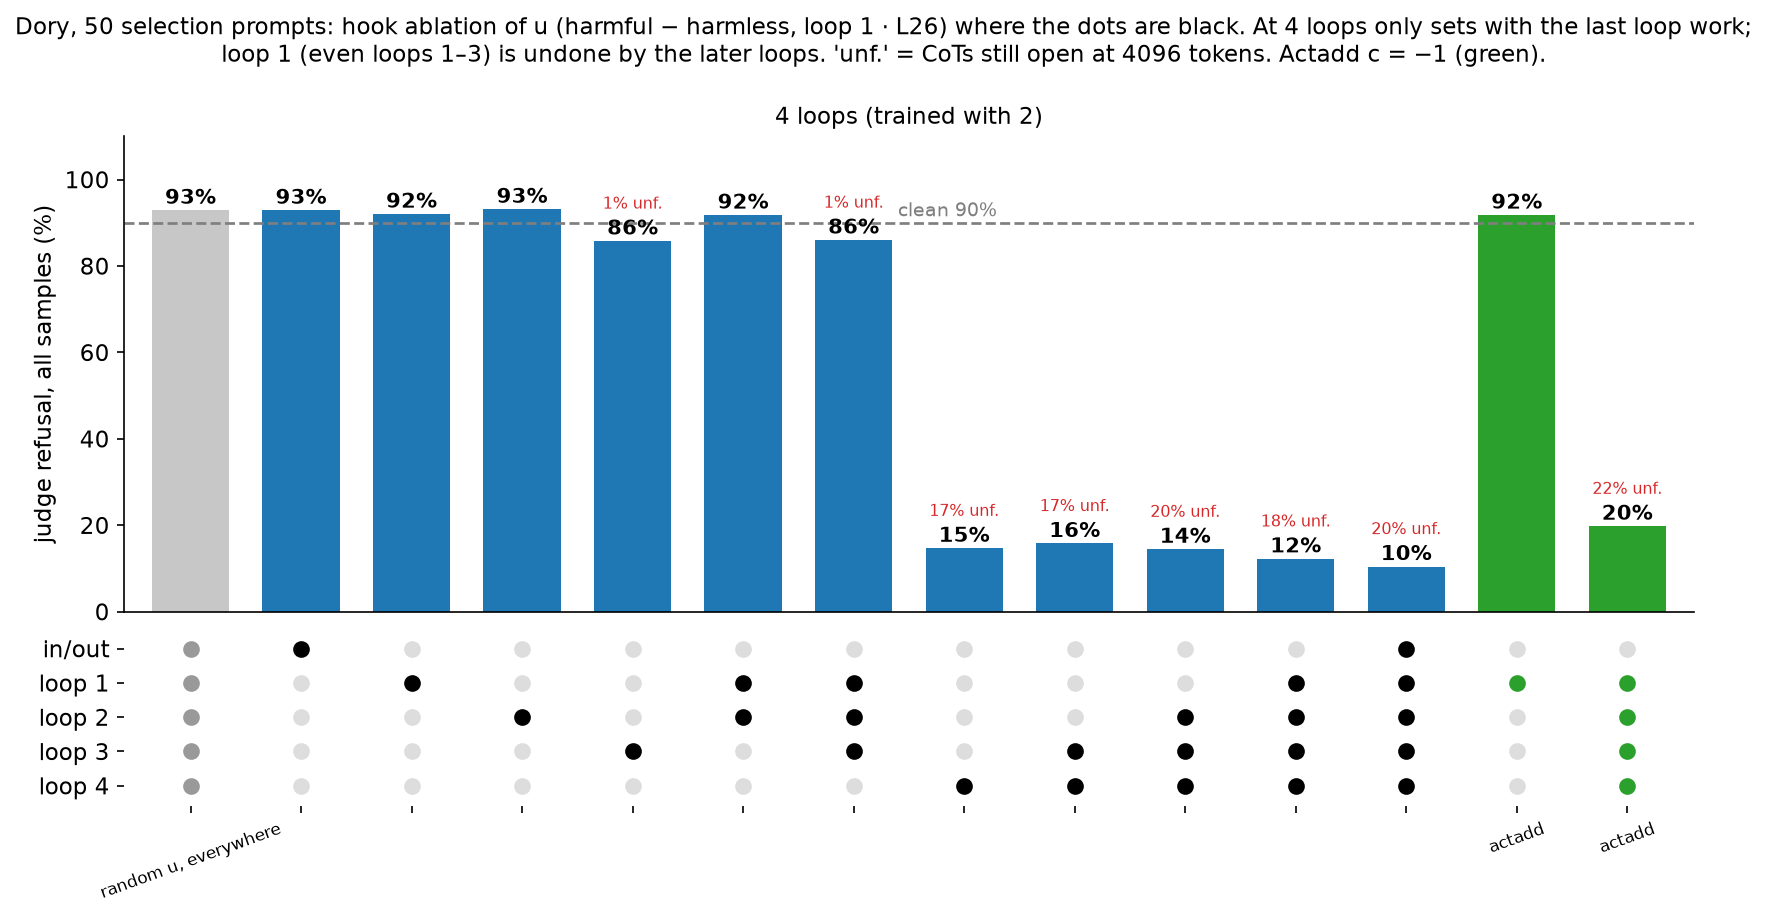
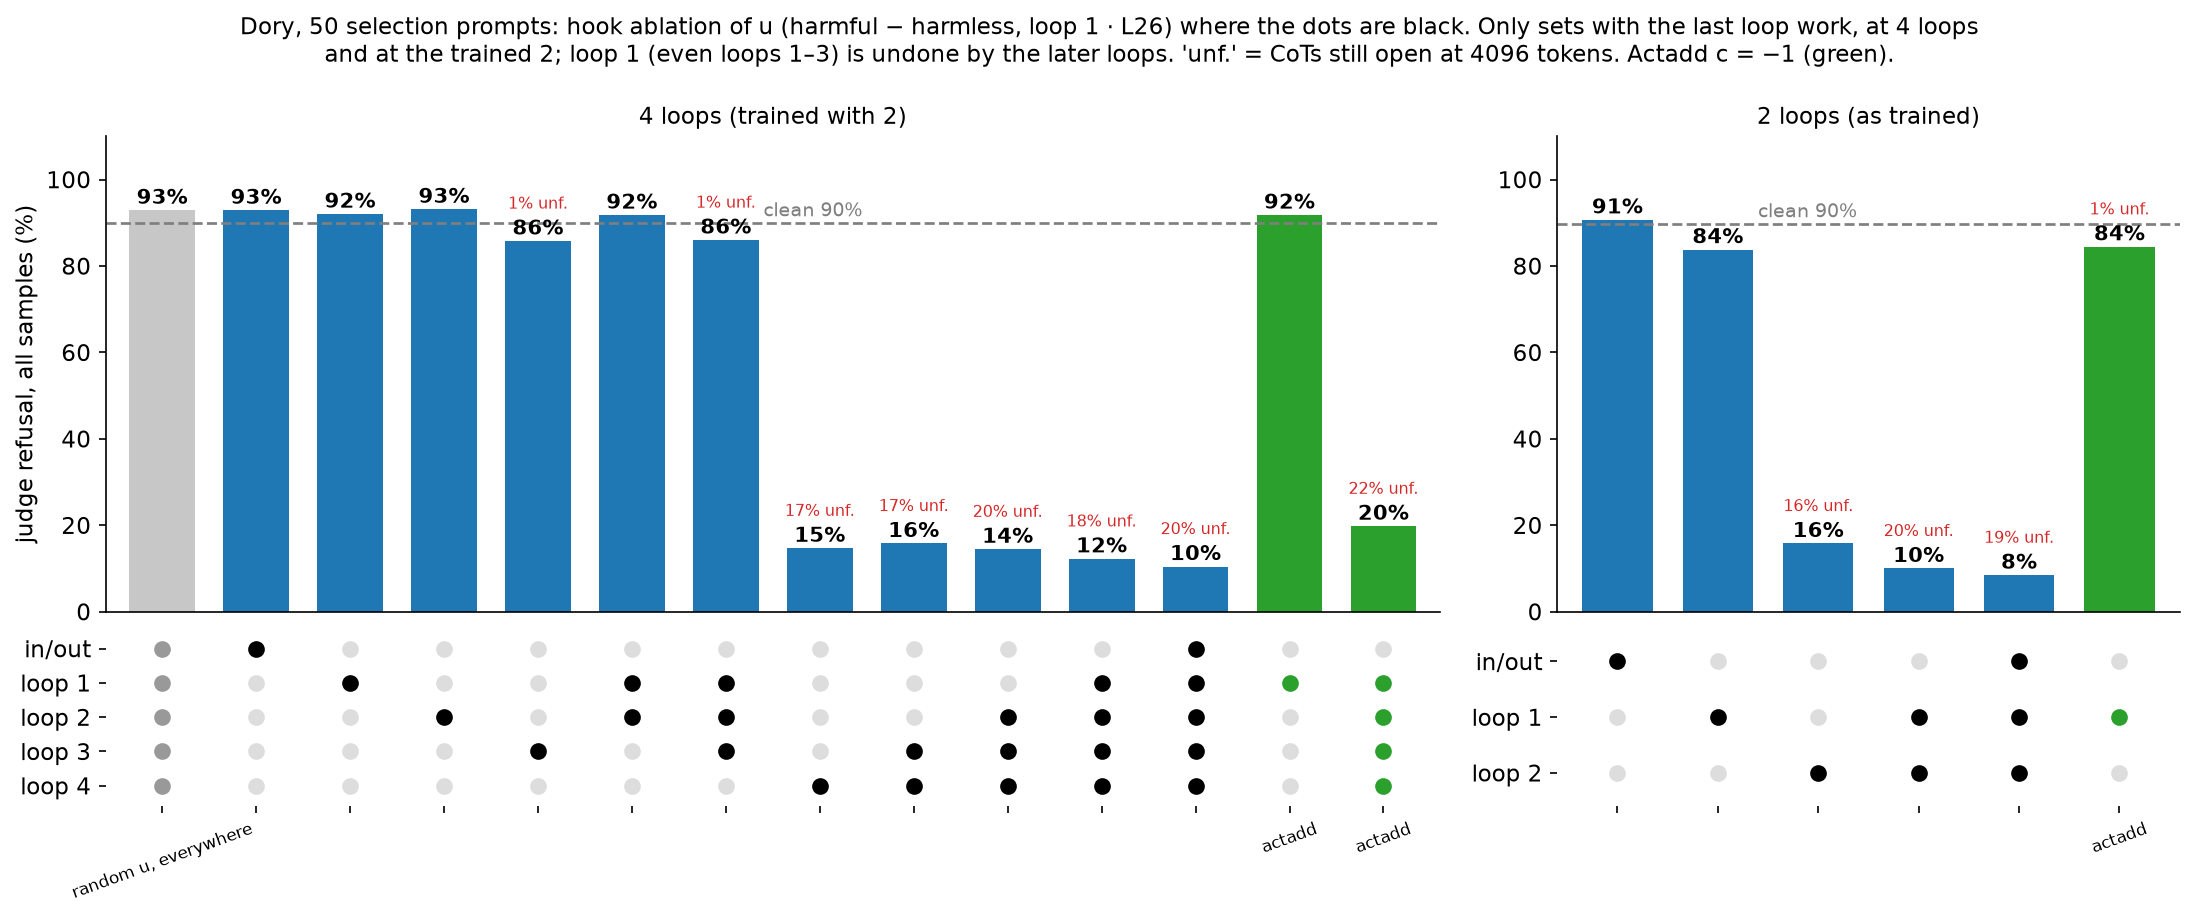
Dory loop subsets at the trained 2 loops: the last loop carries the effect there too

diff --git a/scripts/make_presentation_figures.py b/scripts/make_presentation_figures.py
@@ -904,8 +904,8 @@ def fig_dory_loops():
         dots.spines[["left", "bottom"]].set_visible(False)
     axes[0, 0].set_ylabel("judge refusal, all samples (%)")
     fig.suptitle("Dory, 50 selection prompts: hook ablation of u (harmful − harmless, loop 1 · L26) where the dots are "
-                 "black. At 4 loops only sets with the last loop work;\nloop 1 (even loops 1–3) is undone by the "
-                 "later loops. 'unf.' = CoTs still open at 4096 tokens. Actadd c = −1 (green).", fontsize=11, y=1.02)
+                 "black. Only sets with the last loop work, at 4 loops\nand at the trained 2; loop 1 (even loops 1–3) is "
+                 "undone by the later loops. 'unf.' = CoTs still open at 4096 tokens. Actadd c = −1 (green).", fontsize=11, y=1.02)
     fig.savefig(OUT / "dory_loops.png", dpi=150, bbox_inches="tight"); plt.close(fig)
 
 

diff --git a/docs/presentation.md b/docs/presentation.md
@@ -456,7 +456,7 @@ Logit lens on clean traces (decode each loop's output directly):
 
 ---
 
-## Dory at 4 loops: only the last loop matters
+## Dory: only the last loop matters (4 loops and 2)
 
 ![w:1150](figures/dory_loops.png)
 
@@ -466,7 +466,10 @@ Logit lens on clean traces (decode each loop's output directly):
   loops 1–3 86%, input + output stacks 93%. Same 40 sublayers per single loop, so it is *where*, not how many.
 - Stronger than in Ouro (loop 1 alone 40%, any set with loop 3 or 4 8–15%): Dory adds the input stack's output back
   before every loop, so after loop 1 the next loop starts with u again (input stack + loop 1: next run).
-- The cost moves with loop 4: 17–20% of CoTs still open at 4096 (19% at 2 loops); actadd only in loop 1 does nothing.
+- **The same at the trained 2 loops:** loop 2 alone 16%, both loops 10%, everything 8%; loop 1 alone 84%, input +
+  output stacks 91% (clean 90%).
+- The cost moves with the last loop: 16–20% of CoTs still open at 4096 whenever it is ablated, about 1% otherwise
+  (same at 2 and 4 loops); actadd only in loop 1 does nothing (84–92%).
 
 ---
 
@@ -478,7 +481,7 @@ Logit lens on clean traces (decode each loop's output directly):
    on the test set; then gpt-oss.
 3. **Statistics:** bootstrap confidence intervals over prompts for every table.
 4. **Capability at a longer cap** (AIME at 16–32k tokens) and actadd at matched strength across models.
-5. **Dory:** loop subsets at the trained 2 loops (running); input stack + loop 1 (the analogue of Ouro's loop 1),
+5. **Dory:** input stack + loop 1 (the analogue of Ouro's loop 1),
    leave-one-loop-out sets, ablation only at the site or only at the final stream; check that u still separates
    refusing from complying in loops 3–4 and that adding it makes harmless prompts refused. The harmful − harmless
    direction on Ouro and Nanbeige, for a like-for-like comparison.

diff --git a/PLAN.md b/PLAN.md
@@ -44,7 +44,8 @@ unclosed at 8192), weight edit 25.5% (1.4%), actadd c=-1 23.1% (3.4%), hooks wit
 - **Loop subsets at 4 loops** (selection set, TAG `loops4`, `scripts/run_select.sh` with N_LOOPS=4; u = hh_eoi t0.l26;
   `apply=` now counts recurrent loops only, Dory's input / output stacks are loop -1): every set containing loop 4
   gives 10-15% all_refusal (17-20% capped), every set without it 86-93% (loop 1 92%, loops 1-3 86%, in/out only 93%);
-  clean 90%, random 93%; actadd c=-1 all loops 20%, loop 1 only 92%. Running: the same at 2 loops (TAG `loop_gate`).
+  clean 90%, random 93%; actadd c=-1 all loops 20%, loop 1 only 92%. Same at 2 loops (TAG `loop_gate`): loop 2 alone 16% (16% capped), loops 1+2 10%, everything 8% (screen); loop 1
+  alone 84%, in/out only 91%, actadd c=-1 loop 1 only 84%; clean 90%.
   Next: input stack + loop 1 (`apply=-1,0`), leave-one-out (`0,1,3`, `0,2,3`), ablation at the site only / final
   stream only (needs a `layers=` option), u's separation in loops 3-4 at 4 loops, and the actadd(+u)-on-harmless
   check of the direction; `loop_rebuild.py` Dory branch.
